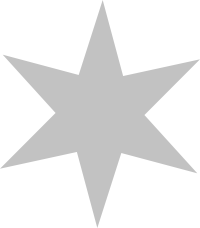
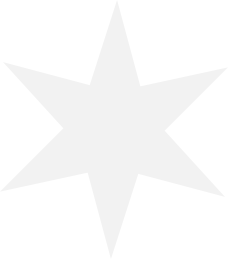
gosu: you can now set draw_mode on movie and on invidual sprites (:default or :additive). wish_upon_a_star updated

diff --git a/samples/gosu_wish_upon_a_star.rb b/samples/gosu_wish_upon_a_star.rb
@@ -9,18 +9,24 @@ class GameWindow < Gosu::MovieMakerWindow
 	end
 	
 	def setup_movie
-		@movie = Movie.new(:framework => :gosu, :screen => $screen)
+		@movie = Movie.new(:framework => :gosu, :screen => $screen, :draw_mode => :additive)
 		0.upto(100) do |nr|		
-			@star = Sprite.new("star_6.png")
-			color = Color.new(0x33F8ED38)
-			flash = Color.new(0x88FFFFFF)
-			x = rand(800)
-			start = nr/4.0
-			zoom = 0.2+rand(0)/5
+			@star = Sprite.new("star_6.png", :x => rand(800), :y => -10)
+			color = Color.new(0x66484D18)
+			flash = Color.new(0xFFFFFFFF)
 			
-			@movie.resource(@star)																	# this resource will follow through all steps bellow
-			@movie.zoom(zoom).move([x,0]).color(color)							# setup (before a between)
-			@movie.between(start, start+7).move([x,700]).rotate(200-rand(400))	# the "movie" (resource is still choosen)
+			start = nr/4.0
+			zoom = 0.1+rand(0)/5
+			
+			# this resource will follow through all steps bellow
+			@movie.resource(@star)
+			
+			# setup (before a between)
+			@movie.zoom(zoom).color(color)
+			
+			# the "movie" (resource is still choosen)
+			#@movie.between(start, start+7).move([x,700]).rotate(200-rand(400))
+			@movie.between(start, start+10).velocity([0,1.2+rand(0)/5]).rotate(200-rand(400))
 			if rand(10) == 0 # A falling star
 				@movie.at(start+2+rand(4)).zoom(zoom+0.3).color(flash).during(1).rotate(720).zoom(0.01).fade_out
 			end

diff --git a/lib/sprite.rb b/lib/sprite.rb
@@ -94,10 +94,13 @@ module MovieMaker
 		#
 		class Sprite			
 			attr_reader :image, :file
-			attr_accessor :x, :y, :angle, :width_scaling, :height_scaling, :color
-			def initialize(file, x=0, y=0)
+			attr_accessor :x, :y, :angle, :width_scaling, :height_scaling, :color, :draw_mode
+			def initialize(file, options = {})
+				@x = options[:x] || 0
+				@y = options[:y] || 0
+				@draw_mode = options[:draw_mode] || :additive
+				
 				@file = file
-				@x, @y = x, y
 				@image = Surface.autoload(@file)
 				@angle = 0.0
 				@width_scaling = 1.0
@@ -117,7 +120,7 @@ module MovieMaker
 		#
 		class TTFSprite
 			attr_reader :image
-			attr_accessor :x, :y, :angle, :width_scaling, :height_scaling, :color
+			attr_accessor :x, :y, :angle, :width_scaling, :height_scaling, :color, :draw_mode
 			def initialize(string, options={})
 				@string = string
 				@color = options[:color] || Color[:black]
@@ -128,6 +131,7 @@ module MovieMaker
 				
 				@x = options[:x] || @position[0]
 				@y = options[:y] || @position[1]
+				@draw_mode = options[:draw_mode] || :additive
 				
 				if @font.nil?
 					@font = TTF.new(File.join("fonts", @fontname), @size)

diff --git a/rubygame_movie_maker.rb b/rubygame_movie_maker.rb
@@ -42,6 +42,8 @@ module MovieMaker
 			@framework = options[:framework] || :rubygame	# this can also be :gosu
 			@target_framerate = options[:target_framerate] || 100
 			@background = options[:background] || nil
+			@draw_mode = options[:draw_mode] || nil
+			
 			if options[:background].kind_of? ::Rubygame::Color::ColorRGB
 				@background = Surface.new(@screen.size)
 				@background.draw_box_s([0,0],[@screen.width,@screen.height], options[:background])
@@ -196,7 +198,7 @@ module MovieMaker
 																			action.sprite.width_scaling, 
 																			action.sprite.height_scaling, 
 																			action.sprite.color,
-																			:additive)
+																			(@draw_mode || action.sprite.draw_mode))
 			end
 		end
 			

diff --git a/samples/gosu_base.rb b/samples/gosu_base.rb
@@ -18,7 +18,7 @@ module Gosu
 	
 			@clock = ::Gosu::Clock.new
 			@clock.target_framerate = 200
-			
+
 			self
 		end
 	
